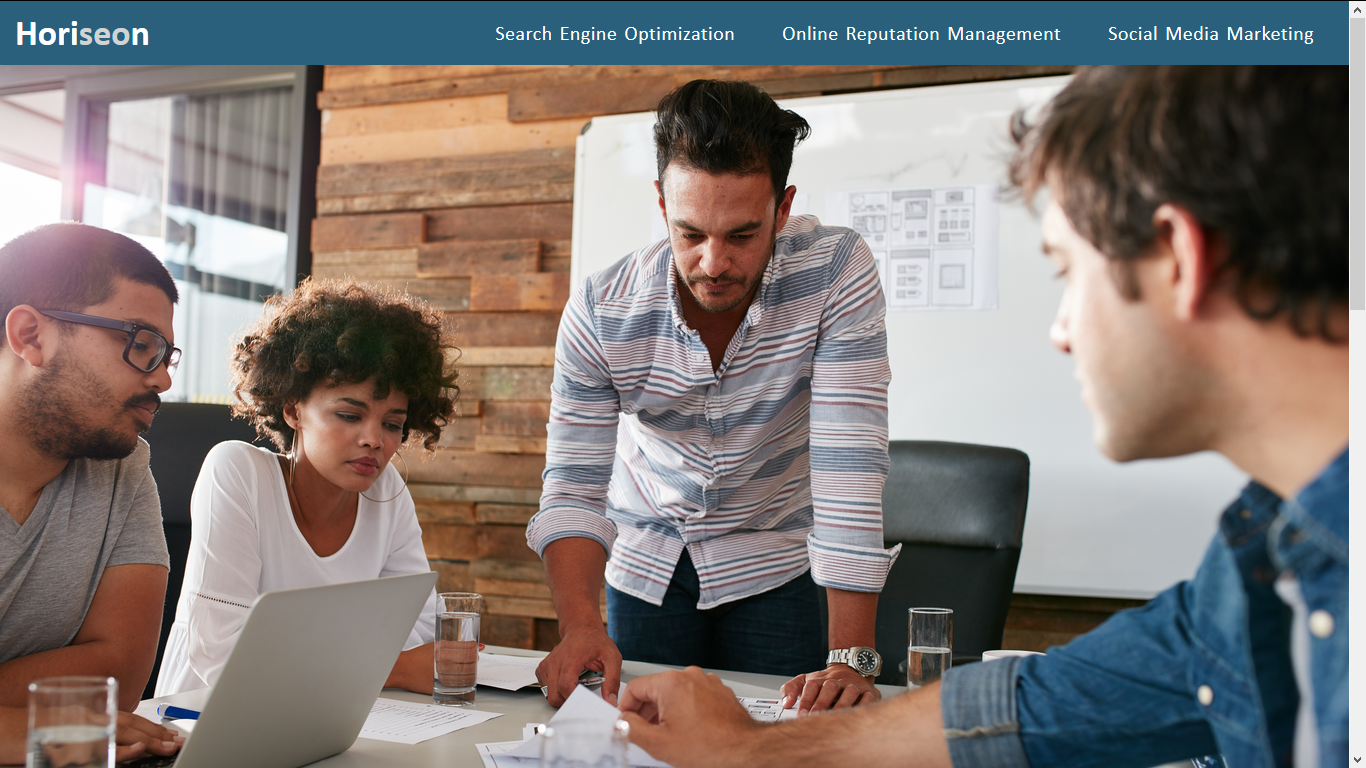
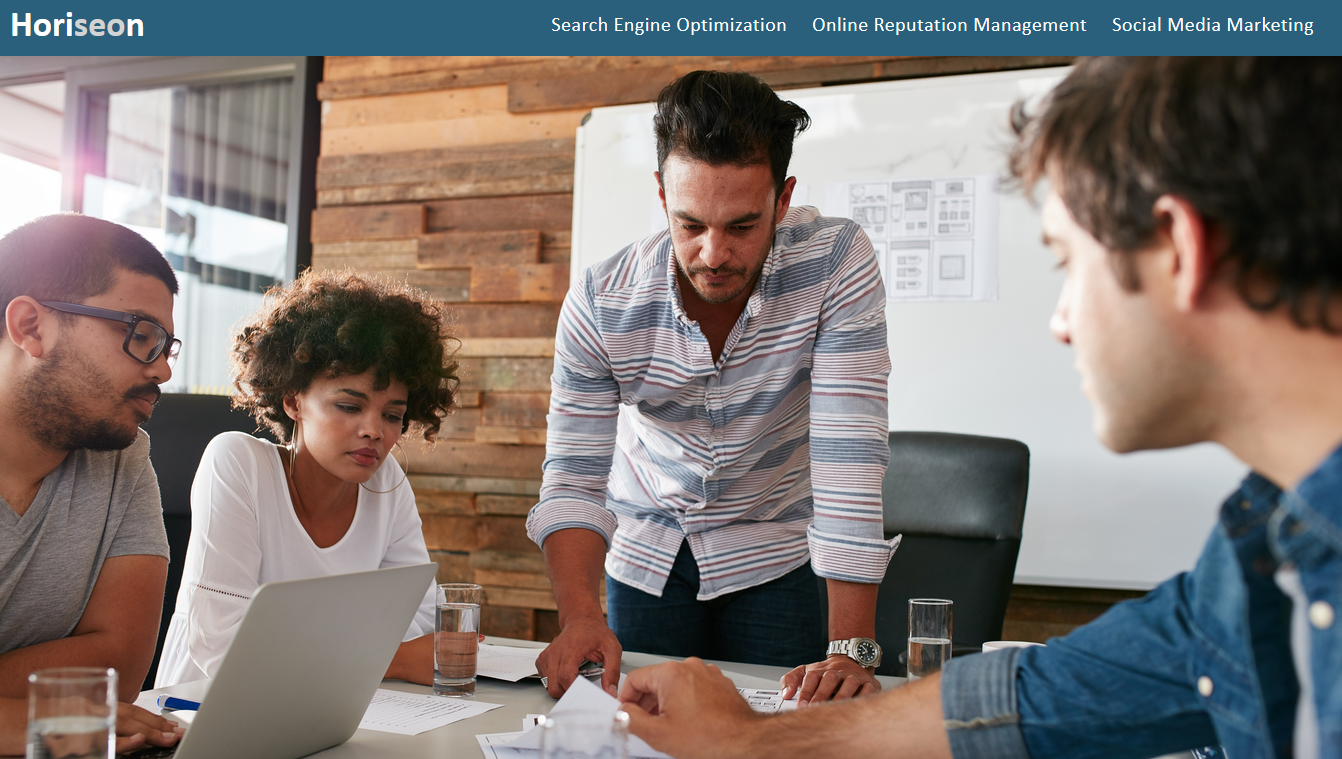
Refactored the CSS code with a consistent flexbox grid for cross-device responsiveness. README screenshots updated.

diff --git a/index.html b/index.html
@@ -8,64 +8,81 @@
 </head>
 
 <body>
-    <header>
-        <h1 class="nav-brand">Hori<span class="seo">seo</span>n</h1>
+    <header class="row">
         <nav>
-            <a href="#search-engine-optimization" class="nav-link">Search Engine Optimization</a>
-            <a href="#online-reputation-management" class="nav-link">Online Reputation Management</a>
-            <a href="#social-media-marketing" class="nav-link">Social Media Marketing</a>       
-        </nav>    
+            <h1 class="nav-brand">Hori<span class="seo">seo</span>n</h1>
+            <ul>
+            <li><a href="#search-engine-optimization" class="nav-link">Search Engine Optimization</a></li>
+            <li><a href="#online-reputation-management" class="nav-link">Online Reputation Management</a></li>
+            <li><a href="#social-media-marketing" class="nav-link">Social Media Marketing</a></li>
+            </ul>
+        </nav>
     </header>
-    <img src="./assets/images/digital-marketing-meeting.jpg" id="marketing" alt="Digital Marketing Meeting">
-    <main>
-        <div id="search-engine-optimization" class="main">
-            <img src="./assets/images/search-engine-optimization.jpg" class="main-img-left" alt="">
-            <h1 class="main-heading">Search Engine Optimization</h1>
-            <div class="main-text">
+    <section class="row" id="header-image">
+        <div class="col">
+            <img src="./assets/images/digital-marketing-meeting.jpg" id="marketing" class="box" alt="Digital Marketing Meeting">
+        </div>
+    </section>
+    <main class="row">
+        <section class="col" id="main">
+            <div id="search-engine-optimization" class="box">
+                <img src="./assets/images/search-engine-optimization.jpg" class="main-img-left" alt="">
+                <h1 class="main-heading">Search Engine Optimization</h1>
+                <div class="main-text">
                 The dominance of mobile internet use means that users are searching for the right business as they travel, shop, or sit on their couch at home. Search Engine Optimization (SEO) allows you to increase your visibility and find the right customers for your business.
+                </div>
             </div>
-        </div>
-        <div id="online-reputation-management" class="main">
-            <img src="./assets/images/online-reputation-management.jpg" class="main-img-right" alt="">
-            <h1 class="main-heading">Online Reputation Management</h1>
-            <div class="main-text">
+            <div id="online-reputation-management" class="box">
+                <img src="./assets/images/online-reputation-management.jpg" class="main-img-right" alt="">
+                <h1 class="main-heading">Online Reputation Management</h1>
+                <div class="main-text">
                 The web is full of opinions, some of them quite negative. Social media allows anyone with an internet connection to say whatever they want about your business. With Online Reputation Management, you can gain control over what potential customers see when searching for your business.
+                </div>
             </div>
-        </div>
-        <div id="social-media-marketing" class="main">
-            <img src="./assets/images/social-media-marketing.jpg" class="main-img-left" alt="">
-            <h1 class="main-heading">Social Media Marketing</h1>
-            <div class="main-text">
+            <div id="social-media-marketing" class="box">
+                <img src="./assets/images/social-media-marketing.jpg" class="main-img-left" alt="">
+                <h1 class="main-heading">Social Media Marketing</h1>
+                <div class="main-text">
                 Social media continues to have a sizable influence on buying habits. Social media marketing helps you determine which platforms are suited to your brand, using analytics to find the right markets and increase your lead generation.
+                </div>
             </div>
-        </div>
-    </main>         
-    <aside>
-        <div class="benefits">
-            <h1 class="benefits-heading">Lead Generation</h1>
-            <img src="./assets/images/lead-generation.png" class="benefits-img" alt="Benefit: Lead Generation">
-            <div class="benefits-text">
-                Inbound strategies for lead generation require less work for your business, bringing customers directly to your website.
+        </section>     
+        <section class="col" id="aside">
+            <div class="box">
+                <div class="box-row">
+                    <img src="./assets/images/lead-generation.png" class="benefits-img" alt="">
+                </div>
+                <h1 class="benefits-heading box-row">Lead Generation</h1>
+                <div class="benefits-text box-row">
+                    Inbound strategies for lead generation require less work for your business, bringing customers directly to your website.
+                </div>
             </div>
-        </div>
-        <div class="benefits">
-            <h1 class="benefits-heading">Brand Awareness</h1>
-            <img src="./assets/images/brand-awareness.png" class="benefits-img" alt="Benefit: Brand Awareness">
-            <div class="benefits-text">
-                Users find your business through paid and organic searches, increasing the search ranking and visibility for your business.
+            <div class="box">
+                <div class="box-row">
+                    <img src="./assets/images/brand-awareness.png" class="benefits-img" alt="">
+                </div>
+                <h1 class="benefits-heading box-row">Brand Awareness</h1>
+                <div class="benefits-text box-row">
+                    Users find your business through paid and organic searches, increasing the search ranking and visibility for your business.
+                </div>
+            </div>  
+            <div class="box">
+                <div class="box-row">
+                    <img src="./assets/images/cost-management.png" class="benefits-img" alt="">
+                </div>
+                <h1 class="benefits-heading box-row">Cost Management</h1>
+                <div class="benefits-text box-row">
+                    As the search ranking for your business increases, your advertising costs decrease, and you no longer need to advertise your page.
+                </div>
             </div>
-        </div>
-        <div class="benefits">
-            <h1 class="benefits-heading">Cost Management</h1>
-            <img src="./assets/images/cost-management.png" class="benefits-img" alt="Benefit: Cost Management">
-            <div class="benefits-text">
-                As the search ranking for your business increases, your advertising costs decrease, and you no longer need to advertise your page.
-            </div>
-        </div>
-    </aside>
-    <footer>
+        </section>
+    </main>
+
+    <footer class="row">
+        <div class="col">
             Made with ❤ by HoriSEOn<br>
             &copy; 2019 Horiseon Social Solution Services, Inc.
+        </div>
     </footer>
 </body>
 

diff --git a/assets/css/style.css b/assets/css/style.css
@@ -5,62 +5,92 @@
     margin: 0;
 }
 
-/* Set background color */
+/* Set background color and the general grid */
 body {
     background-color: #d9dcd6;
+    display: flex;
+    flex-direction: column;
 }
 
-/* Navigation bar */
-header {
-    padding: 10px 15px;
+.row {
+    flex: 1 0 auto;
+}
+
+/* Row 1 - navigation bar */
+nav {
     font-family: 'Gill Sans', 'Gill Sans MT', Calibri, 'Trebuchet MS', sans-serif;
     background-color: #2a607c;
     color: #ffffff;
     position: fixed;
     width: 100%;
+    padding: 10px;
+    display: flex;
+    flex-direction: row;
+}
+
+ul {
+    flex: 0 1 auto;
+    list-style: none;
+    margin: 0px 20px;
+    padding : 10px 0px 0px;
+    font-size: 20px;
+    letter-spacing: .5px;
 }
 
 .nav-brand {
-    display: inline-block;
+    flex: 1 0 auto;
     font-size: 36px;
 }
-
 .seo {
     color: lightgrey;
 }
 
-nav {
-    padding: 10px 0px 0px;
-    letter-spacing: .5px;
-    word-spacing: 2px;
-    margin-right: 20px;
-    float: right;
-    font-size: 20px;
+li {
+    display: inline;
+    padding-top: 10px;
+    margin-left: 15px;
+    padding-right: 5px;
 }
 
 .nav-link {
     color: #ffffff;
     text-decoration: none;
-    padding-left: 40px;
 }
 
-/* Header Image */
+.nav-link:hover {
+    text-decoration: underline;
+}
+
+/* Row 2 - header image */
+#header-image {
+    margin-bottom: 30px;
+    clear: both;
+}
+
 #marketing {
     width: 100%;
-    margin-bottom: 30px;
 }
 
-/* Main content */
+/* Row 3 - main content */
 main {
-    width: 65%;
-    display: inline-block;
-    margin-left: 30px;
+    display: flex;
+    flex-direction: row;
+    justify-content: space-around;  
+    width: 100%;
 }
 
-/* Main sections */
-.main {
+/* R3 Col1 Section - main */
+#main {
+    flex: 1 0 65%;
+    margin: 0px 30px;
+    display: flex;
+    flex-direction: column;
+}
+
+#main .box {
+    flex: 1 0 auto;
     margin-bottom: 30px;
-        padding: 35px;
+    padding: 35px;
     font-family: 'Gill Sans', 'Gill Sans MT', Calibri, 'Trebuchet MS', sans-serif;
     background-color: #2a607c;
     color: #ffffff;
@@ -87,50 +117,53 @@ main {
     font-size: 16px;
     font-family: Verdana, Geneva, Tahoma, sans-serif;
     line-height: 1.5em;
-    max-width: 75ch;
+    max-width: 77ch;
 }
 
-/* Benefits aside */
-aside {
+/* R3 Col2 Section - aside */
+#aside {
+    flex: 0 1 auto;
     margin-right: 30px;
-    padding: 35px 0px;
-    clear: both;
-    float: right;
-    width: 28%;
+    margin-bottom: 30px;
+    padding-right: 20px;
     font-family: 'Gill Sans', 'Gill Sans MT', Calibri, 'Trebuchet MS', sans-serif;
     background-color: #2a607c;
+
+    display: flex;
+    flex-direction: column; 
+    justify-content: space-around;
 }
 
-/* Benefits sections */
-.benefits {
-    margin-bottom: 25px;
+#aside .box {
+    flex: 1 0 auto;
     color: #ffffff;
-}
 
-.benefits-heading {
-    text-align: center;
-    font-size: 24px;
-}
-
-.benefits-img {
-    display: block;
-    margin: 25px auto;
-    max-width: 150px;
-    float: left;
+    display: flex;
+    flex-direction: column;
+    align-items: center;
 }
     
+.box-row {
+    flex: 0 1 auto;
+    margin: 5px;
+}
+.benefits-heading {
+    font-size: 24px;
+}
+.benefits-img {
+    max-width: 100px;
+    margin: 0;
+}
 .benefits-text {
-    font-size: 14px;
+    margin-left: 20px;
+    font-size: 15px;
     font-family: Verdana, Geneva, Tahoma, sans-serif;
     line-height: 1.5em;
-    margin: 40px 45px 50px 0px;
-    max-width: 65ch;
 }
 
 /* Footer copyright */
-footer {
+footer .col {
     padding-bottom: 30px;
-    clear: both;
     font-family: 'Gill Sans', 'Gill Sans MT', Calibri, 'Trebuchet MS', sans-serif;
     font-size: 20px;
     text-align: center;

diff --git a/README.md b/README.md
@@ -8,6 +8,8 @@ The main goals consisted in:
 - Fixing any broken links within the page
 - Improving the layout and overall look of the page (sticky navigation bar, color scheme, positioning, etc.)
 
+Additionally, I later refactored the code once again with a consistent flexbox grid to ensure cross-device responsiveness. 
+
 Below, there are screenshots of the BEFORE and AFTER look of the site. 
 
 # Link to the finished product
